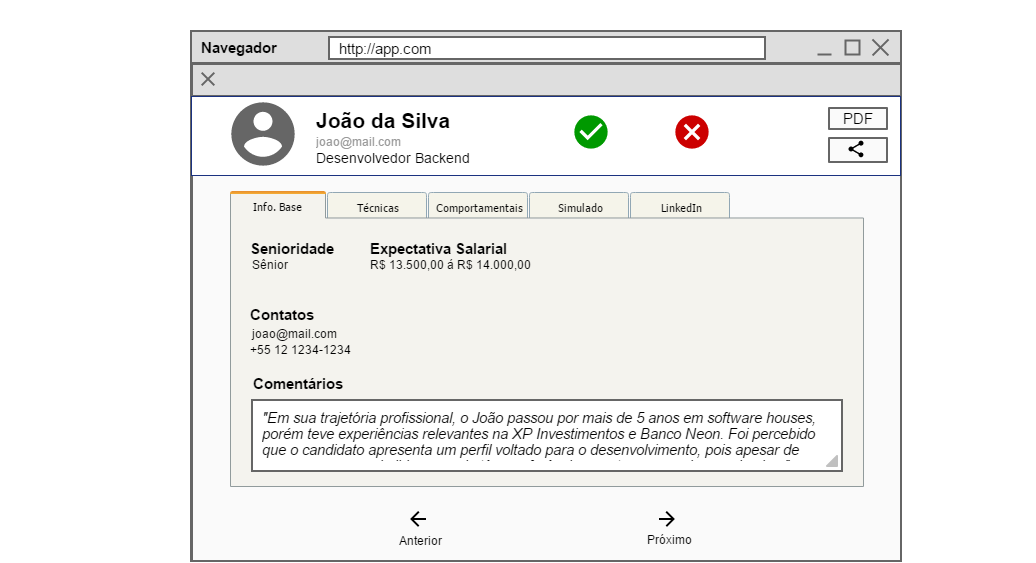
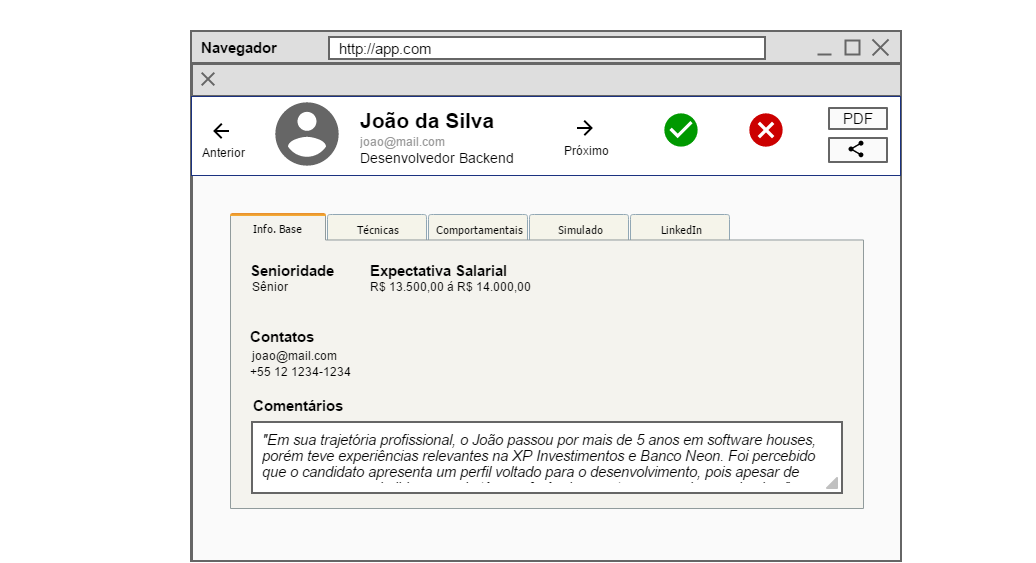
modelos de paginas

diff --git a/index.html b/index.html
@@ -1,2 +1,2 @@
 <html xmlns="http://www.w3.org/1999/xhtml" xmlns:p="http://www.evolus.vn/Namespace/Pencil" xmlns:html="http://www.w3.org/1999/xhtml"><head><meta http-equiv="Content-Type" content="text/html; charset=UTF-8" />
-<title>Mockup_02_10</title><link rel="stylesheet" href="Resources/SampleStyle.css" /></head><body><h1 id="documentTitle">Mockup_02_10</h1><p id="documentMetadata">Exported at: Wed Oct 02 2019 19:09:05 GMT-0300 (Hora oficial do Brasil)</p><div class="Page" id="login_page"><h2>Login</h2><div class="ImageContainer"><img src="pages\login.png" width="1036" height="563" usemap="#map_login" /></div><map name="map_login"><area shape="rect" coords="474,415,583,449" href="#dashboard_page" title="Go to page 'Dashboard'" /></map></div><div class="Page" id="dashboard_page"><h2>Dashboard</h2><div class="ImageContainer"><img src="pages\dashboard.png" width="1036" height="563" usemap="#map_dashboard" /></div><map name="map_dashboard"><area shape="rect" coords="671,365,731,383" href="#vitrine_page" title="Go to page 'Vitrine'" /><area shape="rect" coords="671,341,731,359" href="#vitrine_page" title="Go to page 'Vitrine'" /><area shape="rect" coords="671,317,731,335" href="#vitrine_page" title="Go to page 'Vitrine'" /><area shape="rect" coords="671,293,731,311" href="#vitrine_page" title="Go to page 'Vitrine'" /><area shape="rect" coords="798.984375,75.5,831.984375,88.5" href="#login_page" title="Go to page 'Login'" /><area shape="rect" coords="330,365,469,382" href="#vitrine_page" title="Go to page 'Vitrine'" /><area shape="rect" coords="330,343,470,360" href="#vitrine_page" title="Go to page 'Vitrine'" /><area shape="rect" coords="330,321,464,338" href="#vitrine_page" title="Go to page 'Vitrine'" /><area shape="rect" coords="330,299,465,316" href="#vitrine_page" title="Go to page 'Vitrine'" /></map></div><div class="Page" id="vitrine_page"><h2>Vitrine</h2><div class="ImageContainer"><img src="pages\vitrine.png" width="1036" height="563" usemap="#map_vitrine" /></div><map name="map_vitrine"><area shape="rect" coords="353.984375,361,427.984375,375" href="#info_base_page" title="Go to page 'Info. Base'" /><area shape="rect" coords="353.984375,339,427.984375,353" href="#info_base_page" title="Go to page 'Info. Base'" /><area shape="rect" coords="353.984375,317,427.984375,331" href="#info_base_page" title="Go to page 'Info. Base'" /><area shape="rect" coords="353.984375,295,427.984375,309" href="#info_base_page" title="Go to page 'Info. Base'" /><area shape="rect" coords="798.984375,75.5,831.984375,88.5" href="#login_page" title="Go to page 'Login'" /><area shape="rect" coords="275.984375,295,306.984375,309" href="#tecnicas_page" title="Go to page 'Tecnicas'" /></map></div><div class="Page" id="vitrine_1_page"><h2>Vitrine (1)</h2><div class="ImageContainer"><img src="pages\vitrine_1.png" width="1036" height="563" usemap="#map_vitrine_1" /></div><map name="map_vitrine_1"><area shape="rect" coords="203.984375,293,277.984375,307" href="#tecnicas_page" title="Go to page 'Tecnicas'" /><area shape="rect" coords="798.984375,75.5,831.984375,88.5" href="#login_page" title="Go to page 'Login'" /></map></div><div class="Page" id="vitrine_2_page"><h2>Vitrine (2)</h2><div class="ImageContainer"><img src="pages\vitrine_2.png" width="1036" height="563" usemap="#map_vitrine_2" /></div><map name="map_vitrine_2"><area shape="rect" coords="771,358,831,376" href="#info_base_page" title="Go to page 'Info. Base'" /><area shape="rect" coords="771,336,831,354" href="#info_base_page" title="Go to page 'Info. Base'" /><area shape="rect" coords="771,314,831,332" href="#info_base_page" title="Go to page 'Info. Base'" /><area shape="rect" coords="771,292,831,310" href="#info_base_page" title="Go to page 'Info. Base'" /><area shape="rect" coords="798.984375,75.5,831.984375,88.5" href="#login_page" title="Go to page 'Login'" /></map></div><div class="Page" id="info_base_page"><h2>Info. Base</h2><div class="ImageContainer"><img src="pages\info_base.png" width="1036" height="563" usemap="#map_info_base" /></div><map name="map_info_base"><area shape="rect" coords="630.5,192.5,729.5,222" href="#linkedin_page" title="Go to page 'LinkedIn'" /><area shape="rect" coords="529.5,192.5,628.5,222" href="#simulado_page" title="Go to page 'Simulado'" /><area shape="rect" coords="428.5,192.5,527.5,222" href="#comportamentais_page" title="Go to page 'Comportamentais'" /><area shape="rect" coords="327.5,192.5,426.5,222" href="#tecnicas_page" title="Go to page 'Tecnicas'" /><area shape="rect" coords="196,67,220,91" href="#vitrine_page" title="Go to page 'Vitrine'" /><area shape="rect" coords="672,112,712,152" href="#vitrine_page" title="Go to page 'Vitrine'" /></map></div><div class="Page" id="tecnicas_page"><h2>Tecnicas</h2><div class="ImageContainer"><img src="pages\tecnicas.png" width="1036" height="563" usemap="#map_tecnicas" /></div><map name="map_tecnicas"><area shape="rect" coords="631.5,188.5,730.5,218" href="#linkedin_page" title="Go to page 'LinkedIn'" /><area shape="rect" coords="530.5,188.5,629.5,218" href="#simulado_page" title="Go to page 'Simulado'" /><area shape="rect" coords="428.5,187.5,527.5,217" href="#comportamentais_page" title="Go to page 'Comportamentais'" /><area shape="rect" coords="229.5,188.5,328.5,218" href="#info_base_page" title="Go to page 'Info. Base'" /><area shape="rect" coords="197,67,221,91" href="#vitrine_page" title="Go to page 'Vitrine'" /><area shape="rect" coords="672,112,712,152" href="#vitrine_page" title="Go to page 'Vitrine'" /></map></div><div class="Page" id="comportamentais_page"><h2>Comportamentais</h2><div class="ImageContainer"><img src="pages\comportamentais.png" width="1036" height="563" usemap="#map_comportamentais" /></div><map name="map_comportamentais"><area shape="rect" coords="632.5,189.5,731.5,219" href="#linkedin_page" title="Go to page 'LinkedIn'" /><area shape="rect" coords="531.5,189.5,630.5,219" href="#simulado_page" title="Go to page 'Simulado'" /><area shape="rect" coords="332.5,189.5,431.5,219" href="#tecnicas_page" title="Go to page 'Tecnicas'" /><area shape="rect" coords="231.5,189.5,330.5,219" href="#info_base_page" title="Go to page 'Info. Base'" /><area shape="rect" coords="196,67,220,91" href="#vitrine_page" title="Go to page 'Vitrine'" /><area shape="rect" coords="672,112,712,152" href="#vitrine_page" title="Go to page 'Vitrine'" /></map></div><div class="Page" id="simulado_page"><h2>Simulado</h2><div class="ImageContainer"><img src="pages\simulado.png" width="1036" height="563" usemap="#map_simulado" /></div><map name="map_simulado"><area shape="rect" coords="635.5,191.5,734.5,221" href="#linkedin_page" title="Go to page 'LinkedIn'" /><area shape="rect" coords="198,67,222,91" href="#vitrine_page" title="Go to page 'Vitrine'" /><area shape="rect" coords="433.5,190.5,532.5,220" href="#comportamentais_page" title="Go to page 'Comportamentais'" /><area shape="rect" coords="332.5,190.5,431.5,220" href="#tecnicas_page" title="Go to page 'Tecnicas'" /><area shape="rect" coords="231.5,190.5,330.5,220" href="#info_base_page" title="Go to page 'Info. Base'" /><area shape="rect" coords="671,112,711,152" href="#vitrine_page" title="Go to page 'Vitrine'" /></map></div><div class="Page" id="linkedin_page"><h2>LinkedIn</h2><div class="ImageContainer"><img src="pages\linkedin.png" width="1036" height="563" usemap="#map_linkedin" /></div><map name="map_linkedin"><area shape="rect" coords="432.5,191.5,531.5,221" href="#comportamentais_page" title="Go to page 'Comportamentais'" /><area shape="rect" coords="332.5,191.5,431.5,221" href="#tecnicas_page" title="Go to page 'Tecnicas'" /><area shape="rect" coords="533.5,191.5,632.5,221" href="#simulado_page" title="Go to page 'Simulado'" /><area shape="rect" coords="197,66,221,90" href="#vitrine_page" title="Go to page 'Vitrine'" /><area shape="rect" coords="672,112,712,152" href="#vitrine_page" title="Go to page 'Vitrine'" /><area shape="rect" coords="231.5,191.5,330.5,221" href="#info_base_page" title="Go to page 'Info. Base'" /></map></div></body></html>
+<title>Mockup_02_10</title><link rel="stylesheet" href="Resources/SampleStyle.css" /></head><body><h1 id="documentTitle">Mockup_02_10</h1><p id="documentMetadata">Exported at: Wed Oct 02 2019 16:48:34 GMT-0300 (Hora oficial do Brasil)</p><div class="Page" id="login_page"><h2>Login</h2><div class="ImageContainer"><img src="pages\login.png" width="1036" height="563" usemap="#map_login" /></div><map name="map_login"><area shape="rect" coords="474,415,583,449" href="#dashboard_page" title="Go to page 'Dashboard'" /></map></div><div class="Page" id="dashboard_page"><h2>Dashboard</h2><div class="ImageContainer"><img src="pages\dashboard.png" width="1036" height="563" usemap="#map_dashboard" /></div><map name="map_dashboard"><area shape="rect" coords="671,365,731,383" href="#vitrine_page" title="Go to page 'Vitrine'" /><area shape="rect" coords="671,341,731,359" href="#vitrine_page" title="Go to page 'Vitrine'" /><area shape="rect" coords="671,317,731,335" href="#vitrine_page" title="Go to page 'Vitrine'" /><area shape="rect" coords="671,293,731,311" href="#vitrine_page" title="Go to page 'Vitrine'" /><area shape="rect" coords="798.984375,75.5,831.984375,88.5" href="#login_page" title="Go to page 'Login'" /><area shape="rect" coords="330,365,469,382" href="#vitrine_page" title="Go to page 'Vitrine'" /><area shape="rect" coords="330,343,470,360" href="#vitrine_page" title="Go to page 'Vitrine'" /><area shape="rect" coords="330,321,464,338" href="#vitrine_page" title="Go to page 'Vitrine'" /><area shape="rect" coords="330,299,465,316" href="#vitrine_page" title="Go to page 'Vitrine'" /></map></div><div class="Page" id="vitrine_page"><h2>Vitrine</h2><div class="ImageContainer"><img src="pages\vitrine.png" width="1036" height="563" usemap="#map_vitrine" /></div><map name="map_vitrine"><area shape="rect" coords="353.984375,361,427.984375,375" href="#info_base_page" title="Go to page 'Info. Base'" /><area shape="rect" coords="353.984375,339,427.984375,353" href="#info_base_page" title="Go to page 'Info. Base'" /><area shape="rect" coords="353.984375,317,427.984375,331" href="#info_base_page" title="Go to page 'Info. Base'" /><area shape="rect" coords="353.984375,295,427.984375,309" href="#info_base_page" title="Go to page 'Info. Base'" /><area shape="rect" coords="798.984375,75.5,831.984375,88.5" href="#login_page" title="Go to page 'Login'" /><area shape="rect" coords="275.984375,295,306.984375,309" href="#tecnicas_page" title="Go to page 'Tecnicas'" /></map></div><div class="Page" id="vitrine_1_page"><h2>Vitrine (1)</h2><div class="ImageContainer"><img src="pages\vitrine_1.png" width="1036" height="563" usemap="#map_vitrine_1" /></div><map name="map_vitrine_1"><area shape="rect" coords="203.984375,293,277.984375,307" href="#tecnicas_page" title="Go to page 'Tecnicas'" /><area shape="rect" coords="798.984375,75.5,831.984375,88.5" href="#login_page" title="Go to page 'Login'" /></map></div><div class="Page" id="vitrine_2_page"><h2>Vitrine (2)</h2><div class="ImageContainer"><img src="pages\vitrine_2.png" width="1036" height="563" usemap="#map_vitrine_2" /></div><map name="map_vitrine_2"><area shape="rect" coords="771,358,831,376" href="#info_base_page" title="Go to page 'Info. Base'" /><area shape="rect" coords="771,336,831,354" href="#info_base_page" title="Go to page 'Info. Base'" /><area shape="rect" coords="771,314,831,332" href="#info_base_page" title="Go to page 'Info. Base'" /><area shape="rect" coords="771,292,831,310" href="#info_base_page" title="Go to page 'Info. Base'" /><area shape="rect" coords="798.984375,75.5,831.984375,88.5" href="#login_page" title="Go to page 'Login'" /></map></div><div class="Page" id="info_base_page"><h2>Info. Base</h2><div class="ImageContainer"><img src="pages\info_base.png" width="1036" height="563" usemap="#map_info_base" /></div><map name="map_info_base"><area shape="rect" coords="630.5,214.5,729.5,244" href="#linkedin_page" title="Go to page 'LinkedIn'" /><area shape="rect" coords="529.5,214.5,628.5,244" href="#simulado_page" title="Go to page 'Simulado'" /><area shape="rect" coords="428.5,214.5,527.5,244" href="#comportamentais_page" title="Go to page 'Comportamentais'" /><area shape="rect" coords="327.5,214.5,426.5,244" href="#tecnicas_page" title="Go to page 'Tecnicas'" /><area shape="rect" coords="196,67,220,91" href="#vitrine_page" title="Go to page 'Vitrine'" /><area shape="rect" coords="746,110,786,150" href="#vitrine_page" title="Go to page 'Vitrine'" /></map></div><div class="Page" id="info_base_modelo_2_page"><h2>Info. Base (Modelo 2)</h2><div class="ImageContainer"><img src="pages\info_base_modelo_2.png" width="1036" height="563" usemap="#map_info_base_modelo_2" /></div><map name="map_info_base_modelo_2"><area shape="rect" coords="630.5,234.5,729.5,264" href="#linkedin_page" title="Go to page 'LinkedIn'" /><area shape="rect" coords="529.5,234.5,628.5,264" href="#simulado_page" title="Go to page 'Simulado'" /><area shape="rect" coords="428.5,234.5,527.5,264" href="#comportamentais_page" title="Go to page 'Comportamentais'" /><area shape="rect" coords="327.5,234.5,426.5,264" href="#tecnicas_page" title="Go to page 'Tecnicas'" /><area shape="rect" coords="196,67,220,91" href="#vitrine_page" title="Go to page 'Vitrine'" /><area shape="rect" coords="649,149,689,189" href="#vitrine_page" title="Go to page 'Vitrine'" /></map></div><div class="Page" id="tecnicas_page"><h2>Tecnicas</h2><div class="ImageContainer"><img src="pages\tecnicas.png" width="1036" height="563" usemap="#map_tecnicas" /></div><map name="map_tecnicas"><area shape="rect" coords="631.5,188.5,730.5,218" href="#linkedin_page" title="Go to page 'LinkedIn'" /><area shape="rect" coords="530.5,188.5,629.5,218" href="#simulado_page" title="Go to page 'Simulado'" /><area shape="rect" coords="428.5,187.5,527.5,217" href="#comportamentais_page" title="Go to page 'Comportamentais'" /><area shape="rect" coords="229.5,188.5,328.5,218" href="#info_base_page" title="Go to page 'Info. Base'" /><area shape="rect" coords="197,67,221,91" href="#vitrine_page" title="Go to page 'Vitrine'" /><area shape="rect" coords="672,112,712,152" href="#vitrine_page" title="Go to page 'Vitrine'" /></map></div><div class="Page" id="comportamentais_page"><h2>Comportamentais</h2><div class="ImageContainer"><img src="pages\comportamentais.png" width="1036" height="563" usemap="#map_comportamentais" /></div><map name="map_comportamentais"><area shape="rect" coords="632.5,189.5,731.5,219" href="#linkedin_page" title="Go to page 'LinkedIn'" /><area shape="rect" coords="531.5,189.5,630.5,219" href="#simulado_page" title="Go to page 'Simulado'" /><area shape="rect" coords="332.5,189.5,431.5,219" href="#tecnicas_page" title="Go to page 'Tecnicas'" /><area shape="rect" coords="231.5,189.5,330.5,219" href="#info_base_page" title="Go to page 'Info. Base'" /><area shape="rect" coords="196,67,220,91" href="#vitrine_page" title="Go to page 'Vitrine'" /><area shape="rect" coords="672,112,712,152" href="#vitrine_page" title="Go to page 'Vitrine'" /></map></div><div class="Page" id="simulado_page"><h2>Simulado</h2><div class="ImageContainer"><img src="pages\simulado.png" width="1036" height="563" usemap="#map_simulado" /></div><map name="map_simulado"><area shape="rect" coords="635.5,191.5,734.5,221" href="#linkedin_page" title="Go to page 'LinkedIn'" /><area shape="rect" coords="198,67,222,91" href="#vitrine_page" title="Go to page 'Vitrine'" /><area shape="rect" coords="433.5,190.5,532.5,220" href="#comportamentais_page" title="Go to page 'Comportamentais'" /><area shape="rect" coords="332.5,190.5,431.5,220" href="#tecnicas_page" title="Go to page 'Tecnicas'" /><area shape="rect" coords="231.5,190.5,330.5,220" href="#info_base_page" title="Go to page 'Info. Base'" /><area shape="rect" coords="671,112,711,152" href="#vitrine_page" title="Go to page 'Vitrine'" /></map></div><div class="Page" id="linkedin_page"><h2>LinkedIn</h2><div class="ImageContainer"><img src="pages\linkedin.png" width="1036" height="563" usemap="#map_linkedin" /></div><map name="map_linkedin"><area shape="rect" coords="432.5,191.5,531.5,221" href="#comportamentais_page" title="Go to page 'Comportamentais'" /><area shape="rect" coords="332.5,191.5,431.5,221" href="#tecnicas_page" title="Go to page 'Tecnicas'" /><area shape="rect" coords="533.5,191.5,632.5,221" href="#simulado_page" title="Go to page 'Simulado'" /><area shape="rect" coords="197,66,221,90" href="#vitrine_page" title="Go to page 'Vitrine'" /><area shape="rect" coords="672,112,712,152" href="#vitrine_page" title="Go to page 'Vitrine'" /><area shape="rect" coords="231.5,191.5,330.5,221" href="#info_base_page" title="Go to page 'Info. Base'" /></map></div></body></html>
